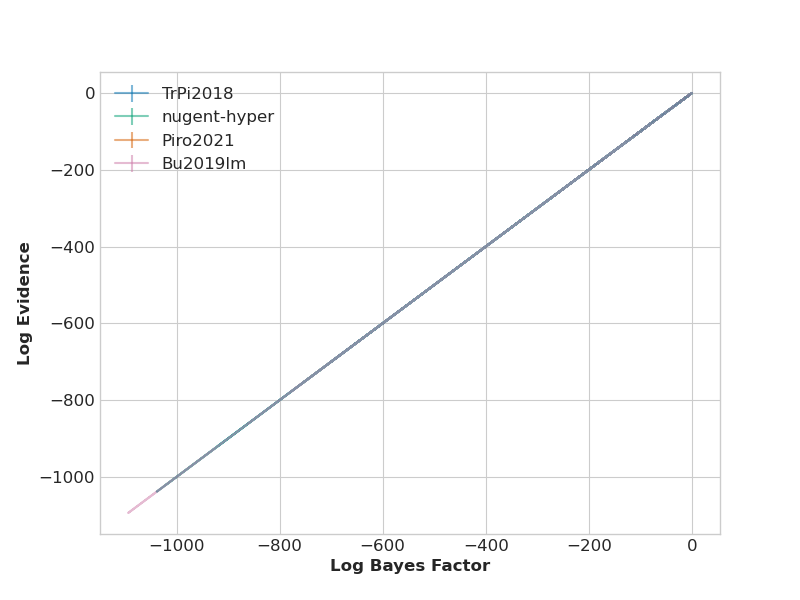
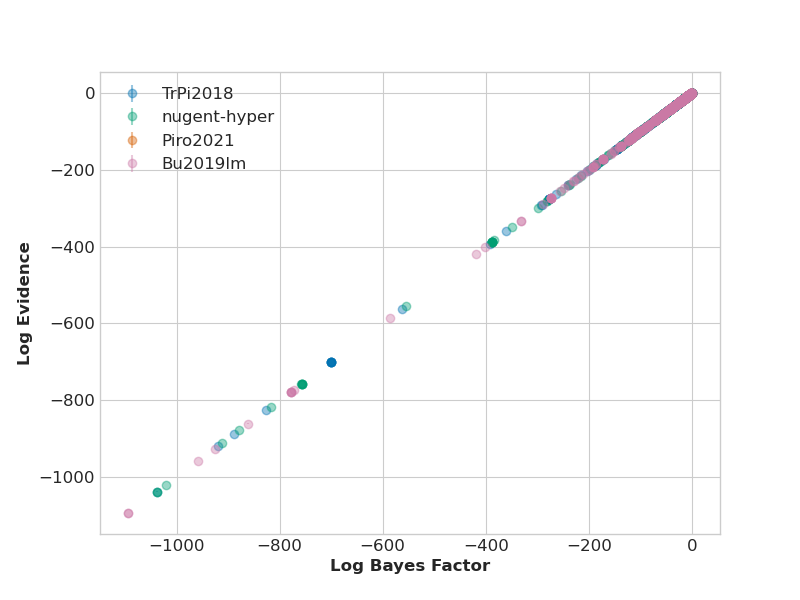
added more likelihood plots
SamplingTimeEvidenceScatterModelLogLog or SamplingTimeBayesScatterModelLogLog are both pretty neat

diff --git a/stats.py b/stats.py
@@ -914,14 +914,56 @@ def plotLikelihood(df, models=args.models, save=True):
         bayesValue = np.concatenate(fitBayes[key],axis=None).ravel() 
         evidValue = np.concatenate(fitEvid[key],axis=None).ravel()
         evidError = np.concatenate(fitEvidErr[key],axis=None).ravel()
-        ax.errorbar(x=bayesValue, y=evidValue, yerr=evidError, label=key, alpha=0.5) if key != 'Total' else None
+        ax.errorbar(x=bayesValue, y=evidValue, yerr=evidError, label=key, fmt='o', alpha=0.4) if key != 'Total' else None
         #sns.scatterplot(evidValue, bayesValue, label=key) if key != 'Total' else None
     ax.set_xlabel("Log Bayes Factor")
     ax.set_ylabel('Log Evidence')
     ax.legend()
     plt.savefig(plotDir("LogBayesEvidenceScatterModel")) if save else None
+    ax.set_ylim(top=1)
+    ax.set_yscale('symlog')
+    plt.savefig(plotDir("LogBayesEvidenceScatterModelLog")) if save else None
+    ax.set_xlim(right=1)
+    ax.set_xscale('symlog')
+    plt.savefig(plotDir("LogBayesEvidenceScatterModelLogLog")) if save else None
     plt.clf()
     
+    ## scatter plot of sampling time vs bayes factor for each model
+    fig, ax = plotstyle(figsize=(8,6), facecolor='white')
+    for key, value in fitBayes.items(): 
+        bayesValue = np.concatenate(fitBayes[key],axis=None).ravel() 
+        timeValue = np.concatenate(fitTime[key],axis=None).ravel()
+        ax.scatter(x=timeValue, y=bayesValue, label=key, alpha=0.4) if key != 'Total' else None
+    ax.set_xlabel("Sampling Time (s)")
+    ax.set_ylabel('Log Bayes Factor')
+    ax.legend()
+    plt.savefig(plotDir("SamplingTimeBayesScatterModel")) if save else None
+    ax.set_ylim(top=1)
+    ax.set_yscale('symlog')
+    plt.savefig(plotDir("SamplingTimeBayesScatterModelLog")) if save else None
+    ax.set_xscale('symlog')
+    ax.set_xlim(left=0)
+    plt.savefig(plotDir("SamplingTimeBayesScatterModelLogLog")) if save else None
+    plt.clf()
+    
+    ## scatter plot of sampling time vs evidence for each model
+    fig, ax = plotstyle(figsize=(8,6), facecolor='white')
+    for key, value in fitTime.items(): 
+        evidValue = np.concatenate(fitEvid[key],axis=None).ravel()
+        timeValue = np.concatenate(fitTime[key],axis=None).ravel()
+        evidError = np.concatenate(fitEvidErr[key],axis=None).ravel()
+        ax.errorbar(x=timeValue, y=evidValue, yerr=evidError, label=key,fmt='o', alpha=0.4) if key != 'Total' else None
+    ax.set_xlabel("Sampling Time (s)")
+    ax.set_ylabel('Log Evidence')
+    ax.legend()
+    plt.savefig(plotDir("SamplingTimeEvidenceScatterModel")) if save else None
+    ax.set_ylim(top=1)
+    ax.set_yscale('symlog')
+    plt.savefig(plotDir("SamplingTimeEvidenceScatterModelLog")) if save else None
+    ax.set_xscale('symlog')
+    ax.set_xlim(left=0)
+    plt.savefig(plotDir("SamplingTimeEvidenceScatterModelLogLog")) if save else None
+    plt.clf()
     
     print('completed likelihood plotting') if args.verbose else None
     print('time to plot candidate likelihoods: {} seconds\n'.format(time.time()-startTime)) if args.verbose else None
